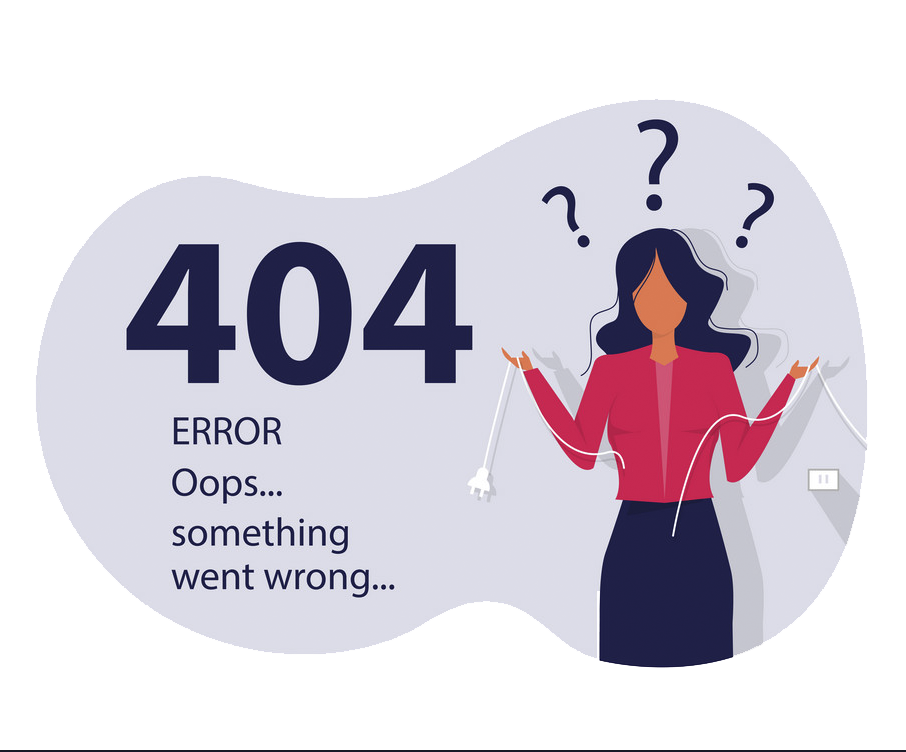
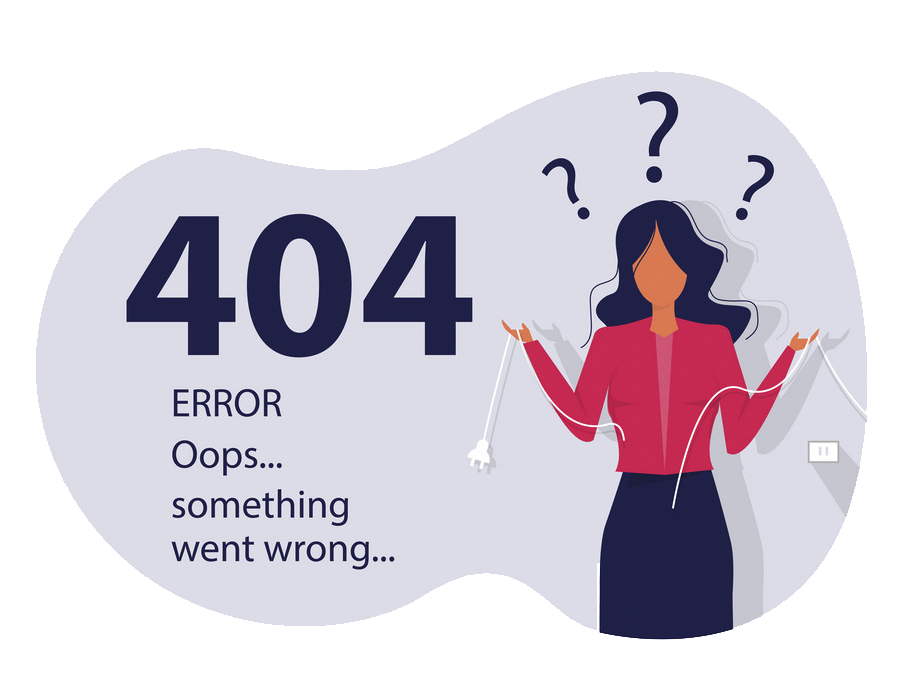
not found page added

diff --git a/src/pages/NotFoundPage.jsx b/src/pages/NotFoundPage.jsx
@@ -1,0 +1,37 @@
+// import { Link } from 'react-router-dom';
+import { Link } from "react-router-dom";
+import img from "../assets/error-404.png"
+const NotFoundPage = () => {
+    return (
+        <div className='mb-[40px]'>
+
+
+            <section className="bg-white ">
+                <div className="container items-center min-h-screen pb-8 mx-auto">
+                    <img className='mx-auto lg:w-[400px] w-[300px]' src={img} alt="" />
+                    <div className="flex flex-col items-center max-w-sm mx-auto text-center">
+                        <p className="mt-4 text-gray-500">The page you are looking for doesn't exist. Here are some helpful links:</p>
+
+                        <div className="flex items-center w-full mt-6 gap-x-3 shrink-0 sm:w-auto">
+                            <Link to="/">
+                            <button className="flex items-center justify-center w-1/2 px-5 py-2 text-sm transition-colors duration-200 bg-white border rounded-lg gap-x-2 sm:w-auto  dark:bg-gray-900 hover:bg-gray-100 hover:text-black text-gray-200 dark:border-gray-700">
+                                <svg xmlns="http://www.w3.org/2000/svg" fill="none" viewBox="0 0 24 24" strokeWidth="1.5" stroke="currentColor" className="w-5 h-5 rtl:rotate-180">
+                                    <path strokeLinecap="round" strokeLinejoin="round" d="M6.75 15.75L3 12m0 0l3.75-3.75M3 12h18" />
+                                </svg>
+                                <span className="hover:text-black">Go back</span>
+                            </button>
+                            </Link>
+
+                            <Link to="/">
+                            <button className="w-1/2 px-5 py-2 text-sm tracking-wide text-white transition-colors duration-200 rounded-lg shrink-0 sm:w-auto hover:text-[#00396a] hover:bg-gray-200 bg-[#00396a]">Take me home
+                            </button>
+                            </Link>
+                        </div>
+                    </div>
+                </div>
+            </section>
+        </div>
+    );
+};
+
+export default NotFoundPage;

diff --git a/src/Components/FeaturesCard.jsx b/src/Components/FeaturesCard.jsx
@@ -7,7 +7,7 @@ const FeaturesCard = ({ feature }) => {
         <div>
             
             <div className="bg-white rounded-lg shadow-md p-6">
-                <img src={feature.img} alt={feature.title} className="w-full h-[200px] object-cover mb-4" />
+                <img src={feature.img} alt={feature.title} className="w-full h-[200px] object-cover mb-4 hover:scale-105 transition duration-300 ease-in-out transform rounded-lg" />
                 <h3 className="text-xl font-semibold">{feature.title}</h3>
                 <p className="text-gray-600 py-5">{feature.description}</p>
                 <button className="btn border-none outline-none bg-[#00396a] w-full text-white">Explore More</button>

diff --git a/src/Components/BannerContent.jsx b/src/Components/BannerContent.jsx
@@ -15,7 +15,7 @@ const BannerContent = () => {
                     Join Our Educational Journey and Transform Your Experience!</p>
                 <a href="#tourist-spots">
                     <div className="relative flex">
-                        <a href="#featherSection">
+                        <a href="#features_Section">
                             <button className="pl-4 pr-10 py-2 text-white bg-[#4987bd] hover:bg-[#4576a2] hover:opacity-90 rounded-[8px]">Explore More</button>
                         </a>
                         <FaCircleArrowRight className="text-white absolute top-[13px] left-[125px] hover:rotate-90" />

diff --git a/src/pages/Footer.jsx b/src/pages/Footer.jsx
@@ -31,7 +31,7 @@ const Footer = () => {
                         <span className="label-text">Enter your email address</span>
                     </label>
                     <div className="join">
-                        <input type="text" placeholder="abc@site.com" className="input input-bordered join-item" />
+                        <input type="text" placeholder="abc@site.com"  className="input input-bordered outline-none join-item" />
                         <button className="btn bg-[#00396a] text-white join-item">Subscribe</button>
                     </div>
                 </fieldset>

diff --git a/src/Routes/Routes.jsx b/src/Routes/Routes.jsx
@@ -6,6 +6,7 @@ import Home from "../pages/Home";
 import Login from "../pages/Login";
 import SignUp from "../pages/SignUp";
 import Assignment from "../pages/Assignment";
+import NotFoundPage from "../pages/NotFoundPage";
 
 const router = createBrowserRouter([
     {
@@ -36,6 +37,10 @@ const router = createBrowserRouter([
         {
             path:"pending-assignment",
             element:<PendingAssignment></PendingAssignment>
+        },
+        {
+            path: "*",
+            element:<NotFoundPage></NotFoundPage>
         }
       ]
     },

diff --git a/src/Components/FeaturesSection.jsx b/src/Components/FeaturesSection.jsx
@@ -2,8 +2,10 @@ import FeaturesCard from "./FeaturesCard";
 import PropTypes from "prop-types"
 
 const FeaturesSection = ({featuresData}) => {
+    
     return (
-        <div>
+        <div id="features_Section">
+            <h1 className="text-4xl font-bold text-center mb-8">Our Features</h1>
             <div className="grid grid-cols-1 gap-6 sm:grid-cols-2 lg:grid-cols-3 mb-[80px] lg:mb-[100px]">
             {featuresData.map((feature, index) => (
                 <FeaturesCard key={index} feature={feature} />
